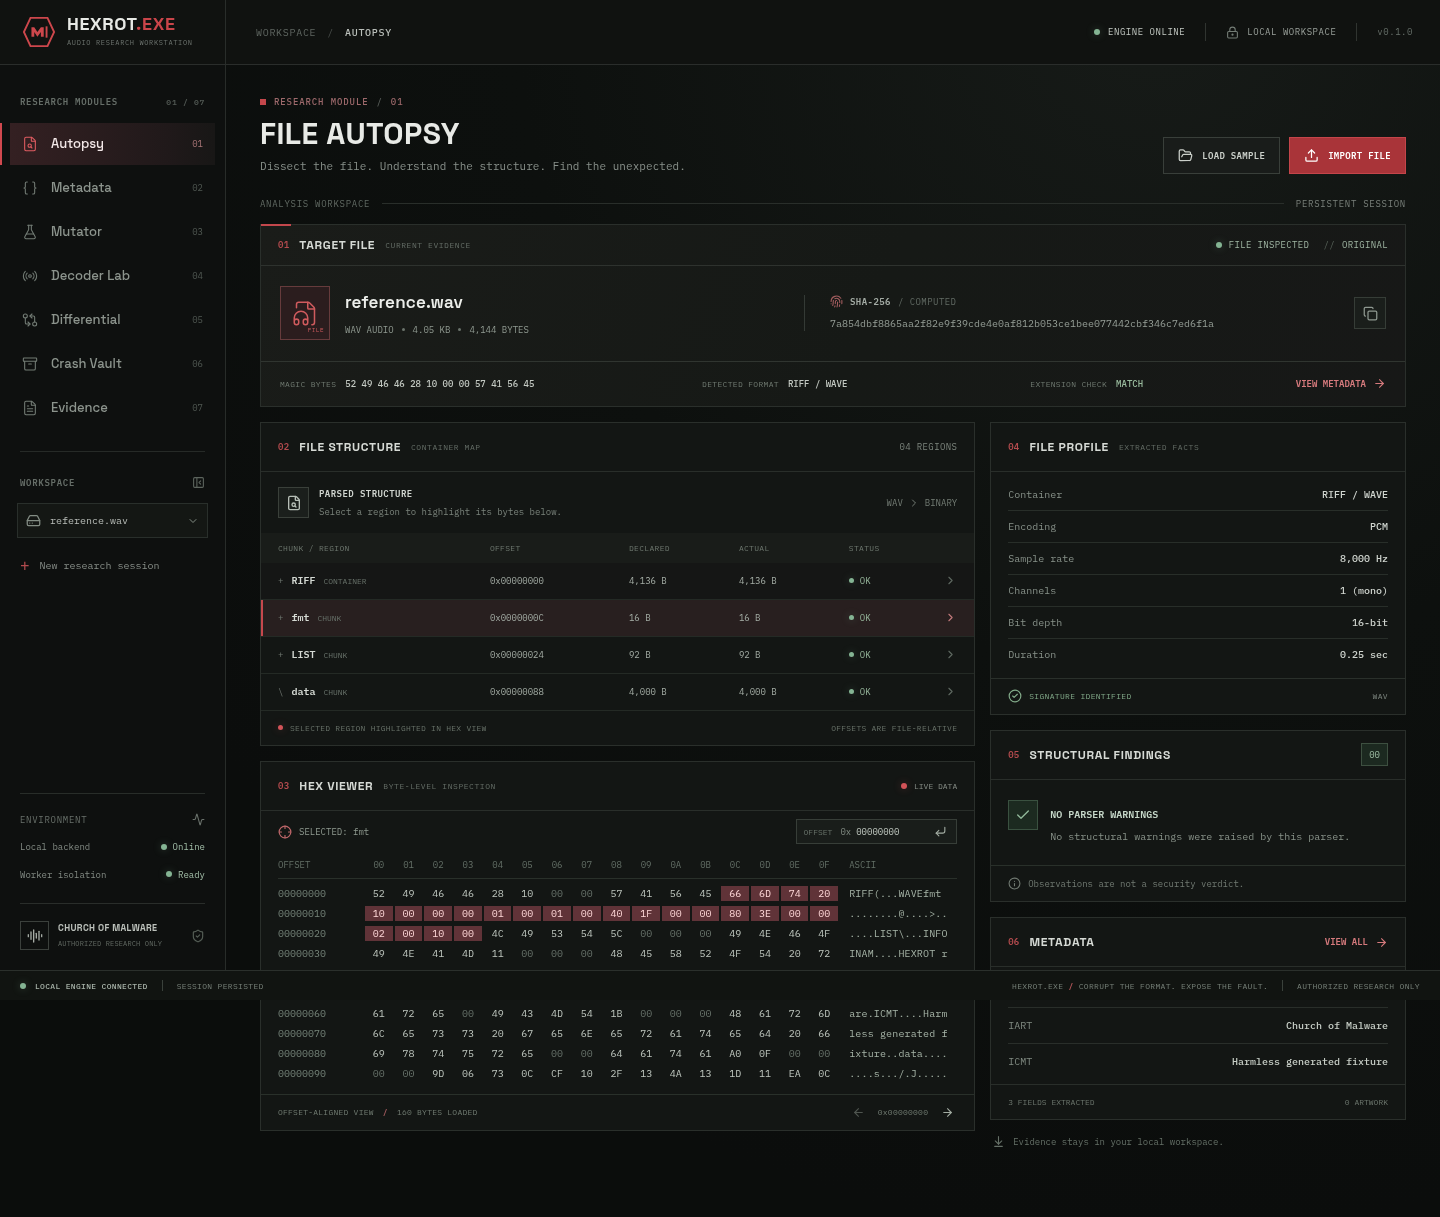
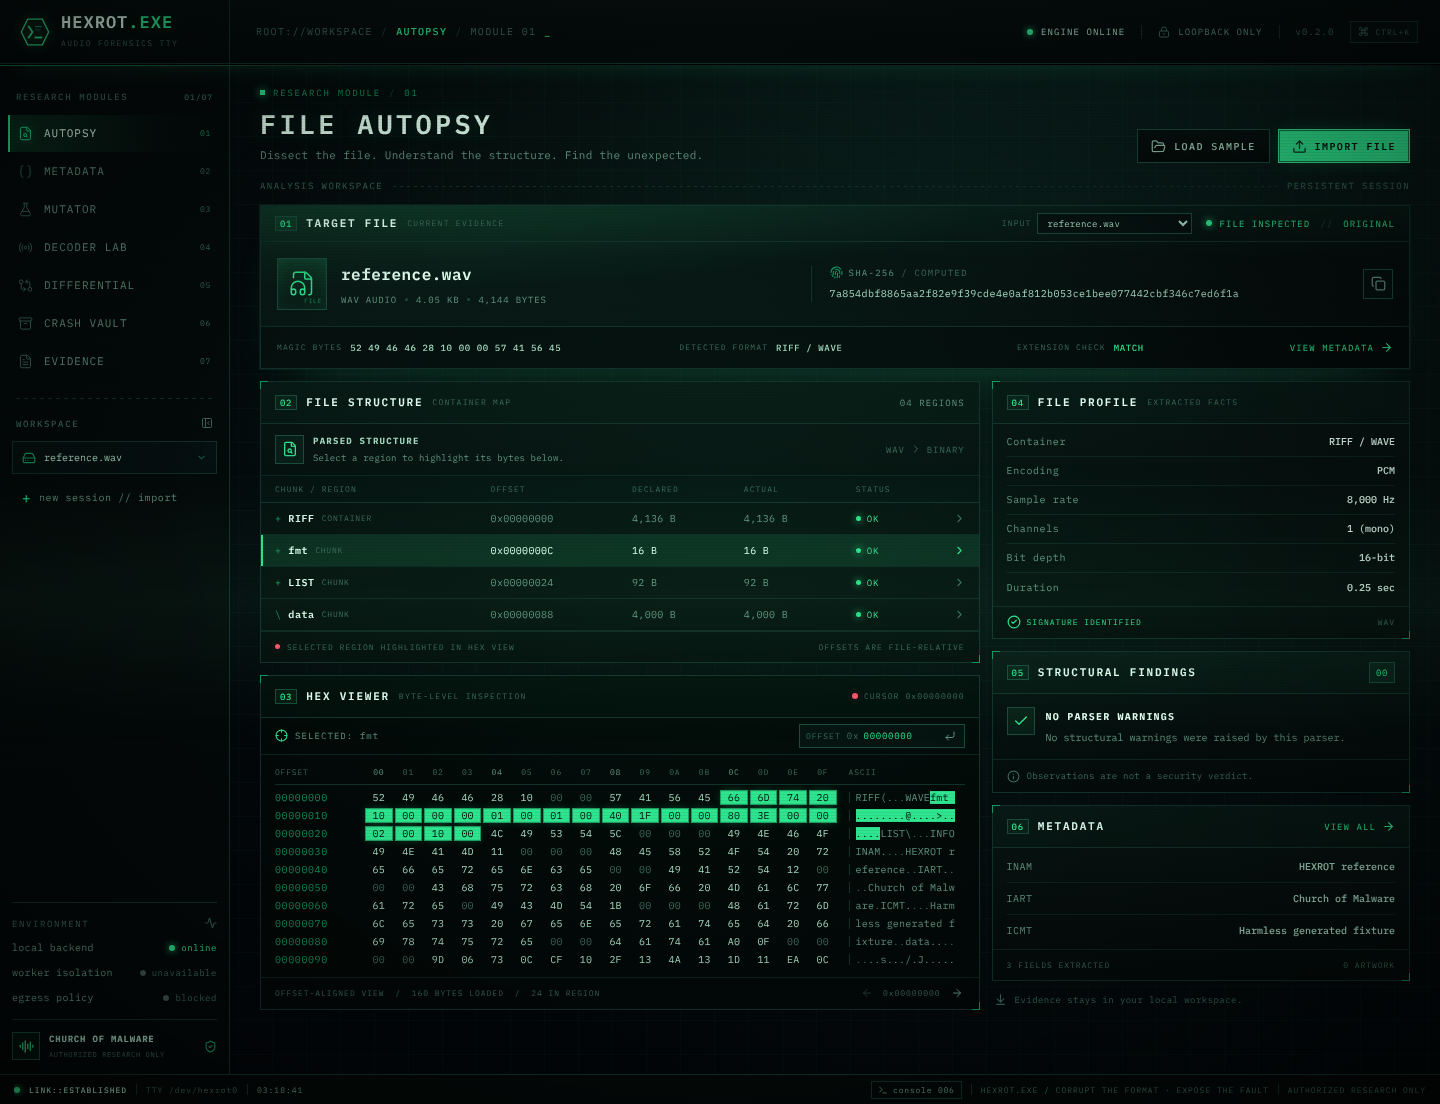
Refresh README screenshots for the terminal UI
Replace the pre-restyle captures with screenshots of the current build,
taken against a live local engine: File Autopsy with the fmt chunk
selected, the mutation engine with five real variants, the Decoder Lab
disabled-state path, and the 390 px mobile layout. Add a mutator capture
to scripts/ui_e2e.mjs so the suite regenerates all four, and update the
captions to describe what each frame actually shows.

diff --git a/README.md b/README.md
@@ -431,21 +431,27 @@ All contain harmless synthesized PCM or text. Expectations are asserted by `test
 ### Screenshots
 
 <div align="center">
-  <img src="docs/screenshots/autopsy.png" alt="File autopsy screen with chunk map, hex viewer, metadata preview, and SHA-256" width="82%"/>
+  <img src="docs/screenshots/autopsy.png" alt="File Autopsy screen with chunk map, hex viewer, metadata preview, and SHA-256" width="82%"/>
   <br/>
-  <sub><strong>File Autopsy</strong> — real fixture, four parsed regions, selected <code>fmt</code> highlighted in the hex viewer. Capture is from a recorded build; the header version label shown there predates the 0.2.0 source correction.</sub>
+  <sub><strong>File Autopsy</strong> — real fixture, four parsed regions, selected <code>fmt</code> chunk highlighted in the hex viewer. Captured from this build against a live local engine.</sub>
 </div>
 
 <div align="center">
-  <img src="docs/screenshots/decoder-lab.png" alt="Decoder Lab showing sandbox self-test, 18/18 completed executions, and per-file accept/reject observations" width="100%"/>
+  <img src="docs/screenshots/mutator.png" alt="Mutation engine showing five generated variants, each with seed, strategy, and per-variant actions" width="82%"/>
   <br/>
-  <sub><strong>Decoder Lab</strong> — sandbox self-test passed, three adapters, <code>18 / 18</code> real executions, and per-file accepted/rejected outcomes with captured stderr.</sub>
+  <sub><strong>Mutation engine</strong> — seed <code>42</code>, default five-strategy cycle: boundary, chunk length, truncation, signature, trailing. Every variant starts from the unchanged original.</sub>
+</div>
+
+<div align="center">
+  <img src="docs/screenshots/decoder-lab.png" alt="Decoder Lab showing execution configuration, three decoders, worker isolation status, and job state" width="82%"/>
+  <br/>
+  <sub><strong>Decoder Lab</strong> — the <em>disabled</em> path, captured on a host with no <code>bubblewrap</code>: adapters report not-installed, isolation is refused with its reason, and execution stays disabled rather than falling back to an unsandboxed run. On a machine with the sandbox installed the same panels show three available adapters, a passing self-test, live job progress, and per-file accept/reject observations.</sub>
 </div>
 
 <div align="center">
   <img src="docs/screenshots/mobile.png" alt="Mobile viewport of the HEXROT.EXE workstation" width="38%"/>
   <br/>
-  <sub><strong>Responsive layout</strong> — 390 px viewport; modules become a horizontal rail.</sub>
+  <sub><strong>Responsive layout</strong> — 390 px viewport; modules become a horizontal rail and the hex viewer splits offsets from bytes.</sub>
 </div>
 
 ---
@@ -1067,7 +1073,7 @@ With both services running, Chromium installed, and a disposable workspace:
 HEXROT_HOME=/path/to/disposable/workspace node scripts/ui_e2e.mjs
 ```
 
-The script imports the real fixture, generates five variants, compares bytes, runs available isolated decoders, exports a report, reopens the session, and cancels an active worker. It writes the three screenshots used above.
+The script imports the real fixture, generates five variants, compares bytes, runs available isolated decoders, exports a report, reopens the session, and cancels an active worker. It writes the four screenshots used above (autopsy, mutator, decoder lab, mobile).
 
 ### Reproduce the verification
 
@@ -1180,7 +1186,7 @@ HEXROT.EXE/
 │   └── ui_e2e.mjs              # Playwright browser workflow
 ├── docs/
 │   ├── diagrams/               # SVG sources + deterministic generator
-│   ├── screenshots/            # Recorded UI captures
+│   ├── screenshots/            # UI captures (regenerated by scripts/ui_e2e.mjs)
 │   ├── architecture.md         # Layer/isolation/API narrative
 │   ├── adapters.md             # Decoder adapter contract
 │   ├── fixtures.md             # Fixture expectations
